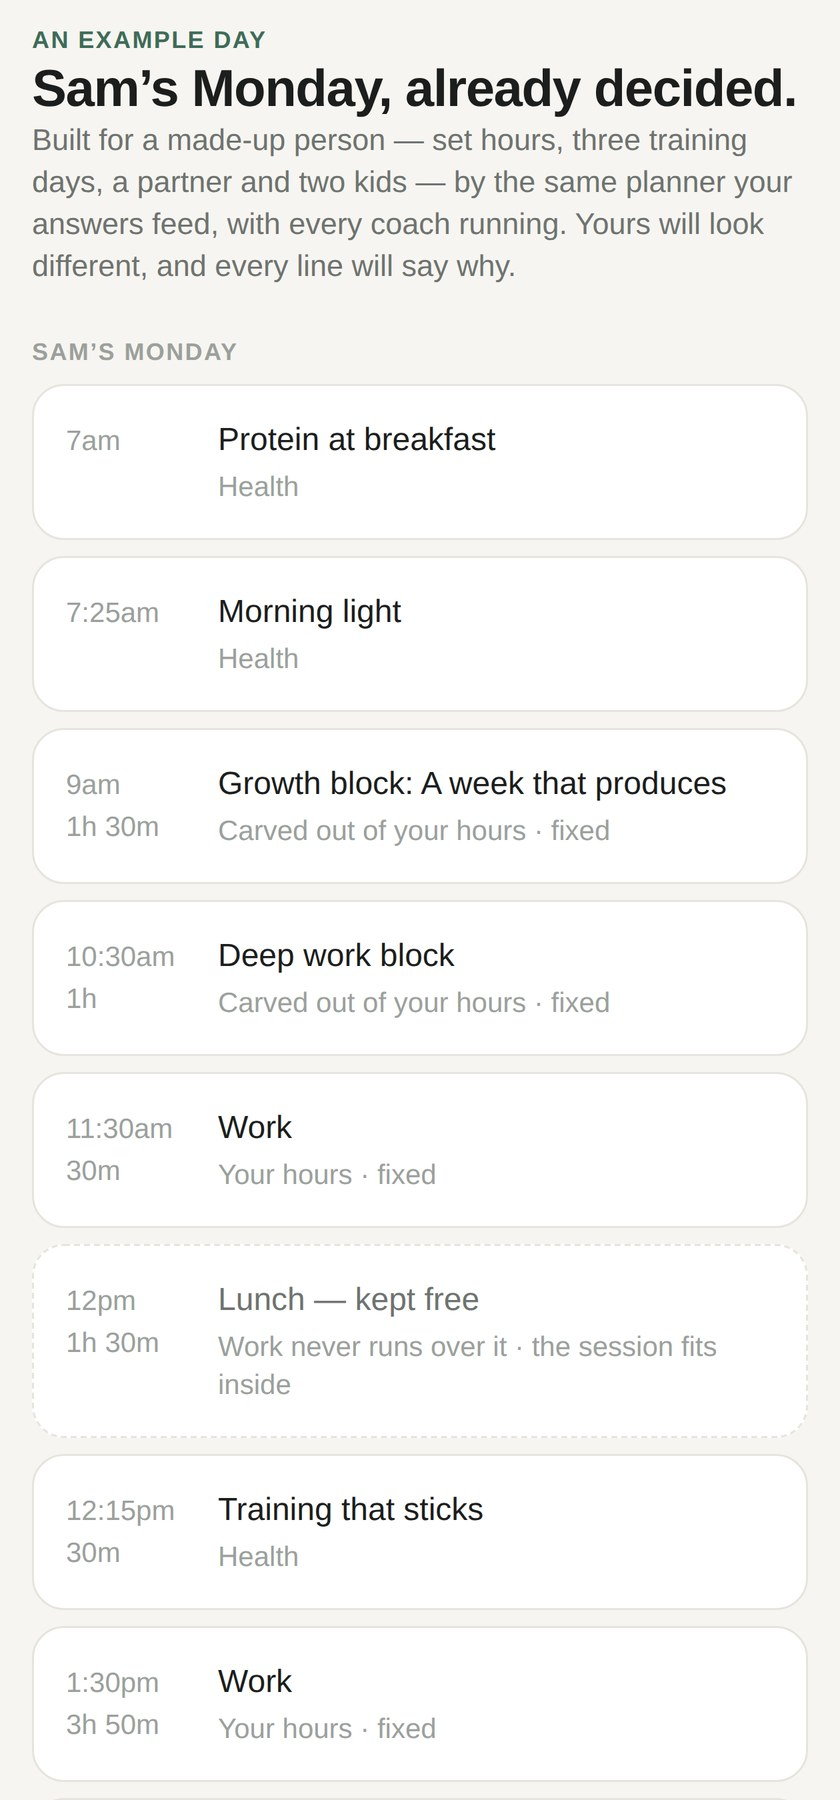
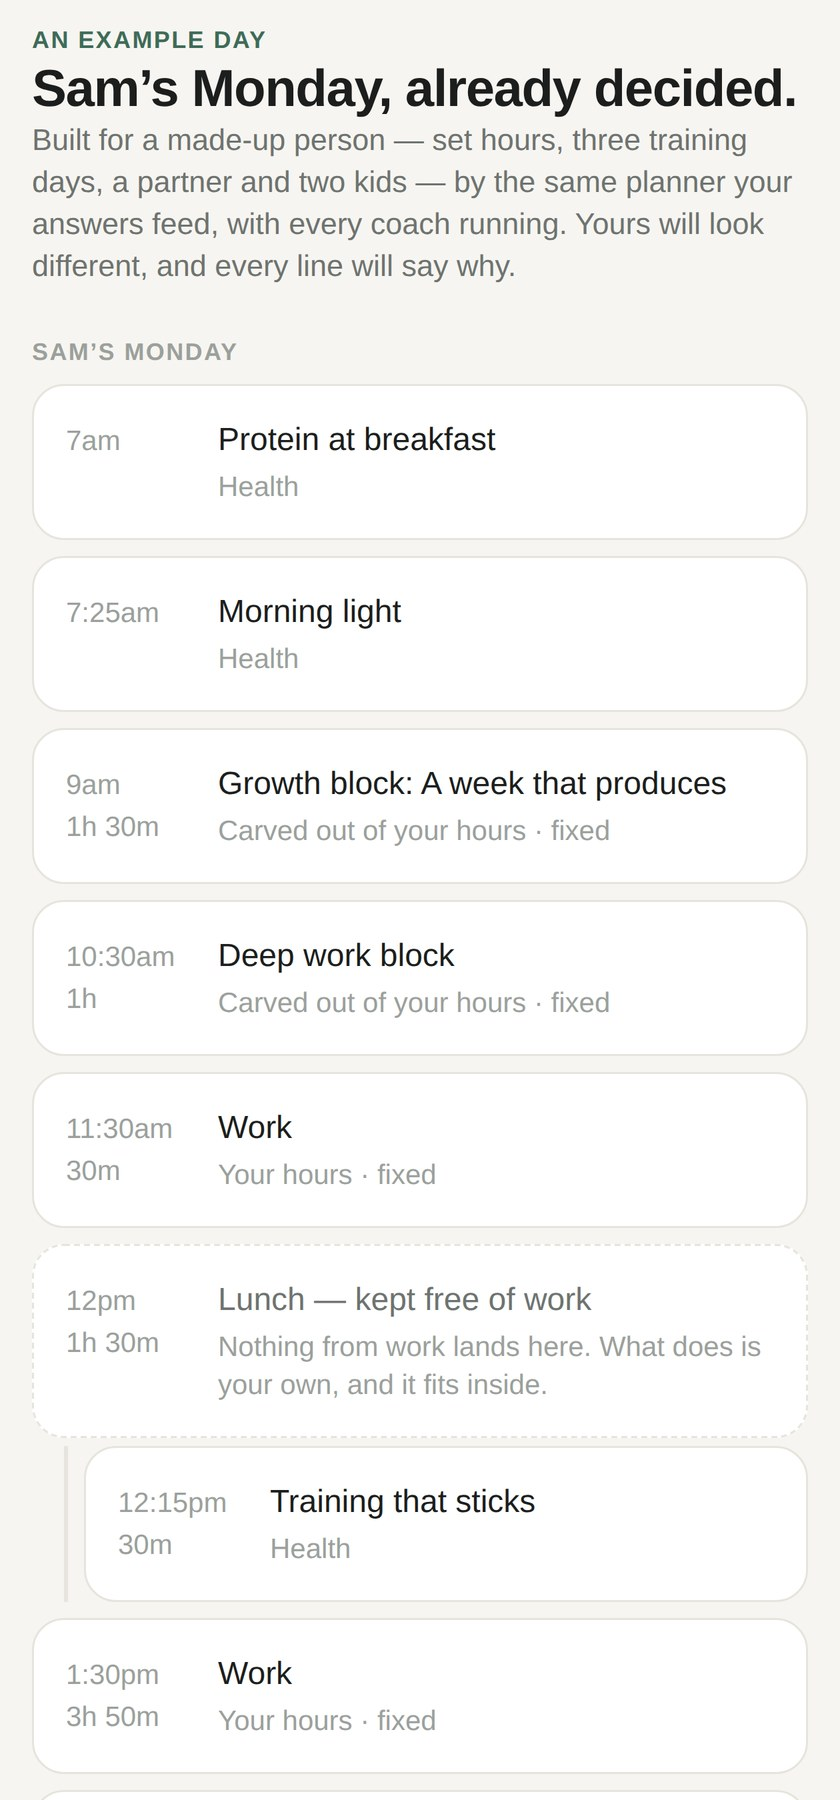
web, docs: the example day re-rendered with the lunch window as a container
Reply to the website session's third request, with provenance.

Claude-Session: https://claude.ai/code/session_01J2Eq9uBzmbDrm1rEhJBvWu

diff --git a/docs/APP_CAPTURE_REQUEST.md b/docs/APP_CAPTURE_REQUEST.md
@@ -215,3 +215,24 @@ which Isaac has already criticised for the bare "Work" rows and a thin
 afternoon. Both frames have a problem; this one just has the worse kind. A
 re-render of the example day with any of the three fixes goes straight back on
 the hero.
+
+---
+
+## Reply to the third request — the window is a container now (7 Sep 2026)
+
+Option one, as you preferred. In `src/app/example-day.tsx` the lunch window
+is drawn as a dashed container and whatever the planner placed inside it is
+nested under it, indented with a rule on the left, so the relationship is
+spatial: a reader going down the times meets "Lunch — kept free of work,
+1h 30m" and then, inside it, "12:15pm Training that sticks, 30m". The meta
+line no longer has to argue the point. Commit `e5ef885`.
+
+`web/public/images/app/app-example-day.jpg` is re-rendered from that commit
+(fresh `expo export --platform web`, headless Chromium, 420×900 at 3×,
+`Australia/Brisbane`, no seed, downsampled to 840×1800). Provenance is in
+`docs/APP_SCREENSHOTS.md`. It can go straight back on the hero.
+
+Two things changed on that screen since the frame you took down, both from
+the coach work merged over the weekend: the day now carries the named
+habit's evening reset and "Dinner is decided" under the family dinner, and
+the intro line is shorter. Every sentence is still the app's own output.

diff --git a/docs/APP_SCREENSHOTS.md b/docs/APP_SCREENSHOTS.md
@@ -36,6 +36,15 @@ show it yet; the update ships the day the approval lands. If the site goes
 live before that, the caption should not promise sleep debt as shipped, or
 the Today screen should wait for the update.
 
+## `app-example-day.jpg` — re-rendered 7 September 2026 from `e5ef885`
+
+The example day (`/example-day`, no seed: it is the screen before the
+interview) with the lunch window drawn as a container and the session that
+sits inside it nested under it, after the website session's third request.
+Same capture settings as the current set, `Australia/Brisbane`, downsampled
+to 840×1800. Every line is the planner's own output for the made-up person
+in `src/app/example-day.tsx`.
+
 ## Held back right now
 
 `app-today.jpg` is captured, accurate to `7b7f690`, and **not on the site** —
